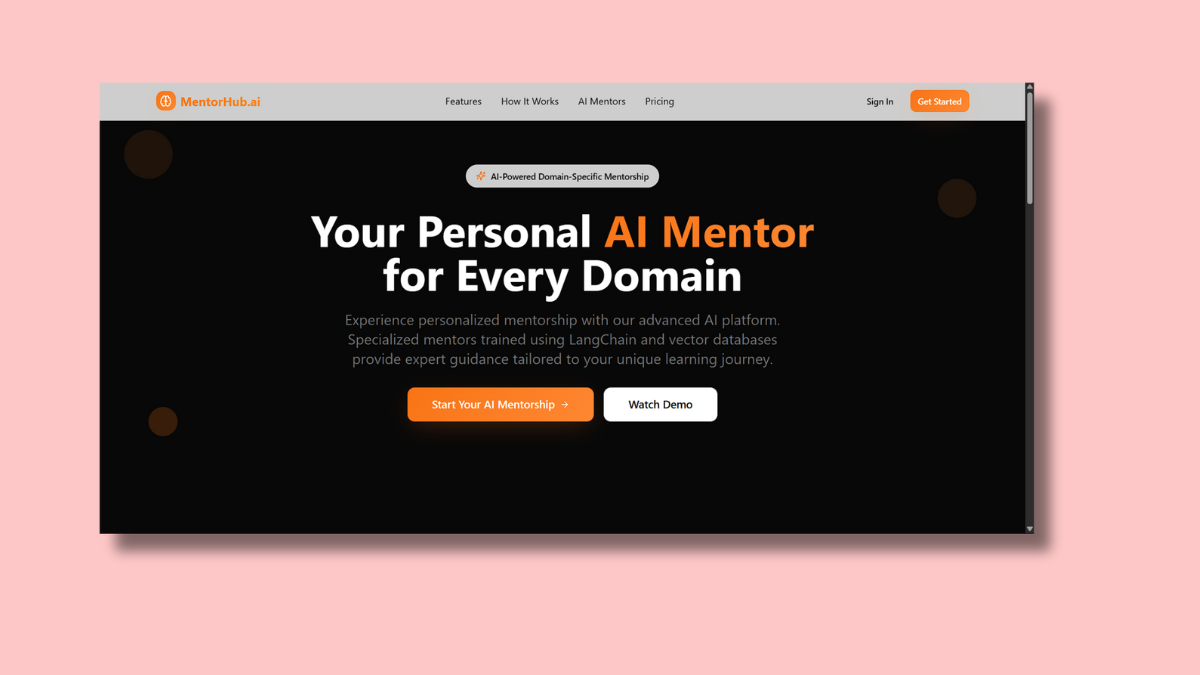
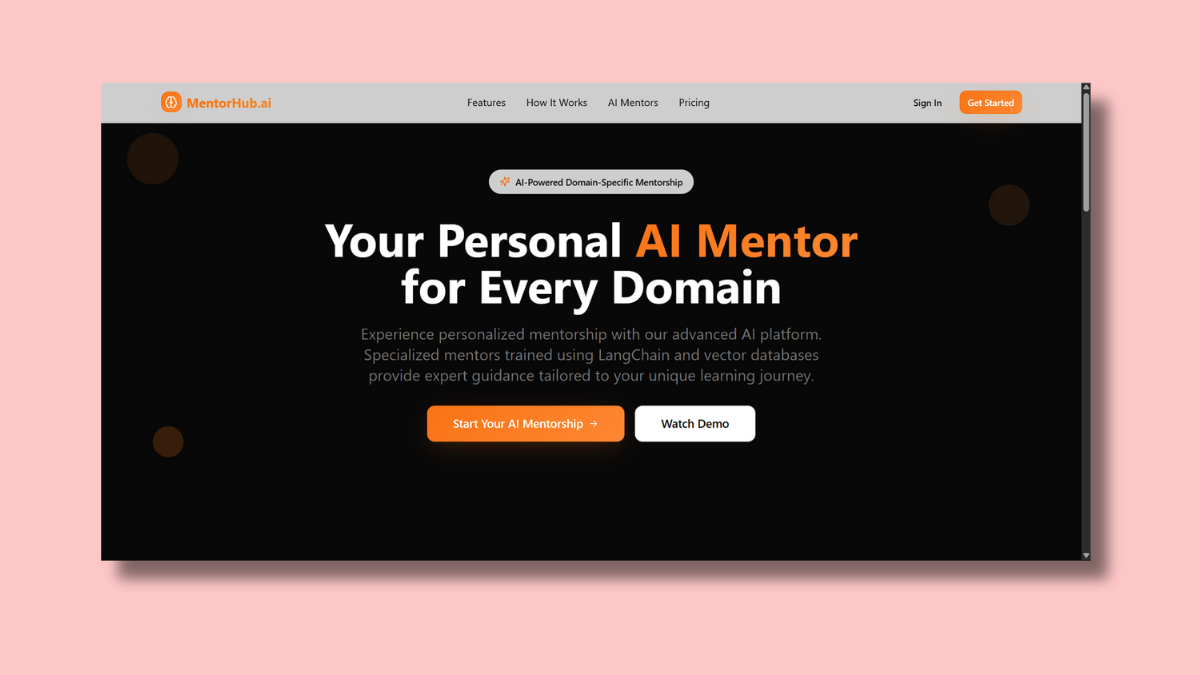
Projects Section Update

Changed region(s): [[0.0617, 0.1244, 0.925, 0.8711], [0.2467, 0.2178, 0.7092, 0.6844], [0.1233, 0.5911, 0.1542, 0.6844]]

diff --git a/src/components/AchievementsSection.js b/src/components/AchievementsSection.js
@@ -14,7 +14,7 @@ const achievementsData = {
       title: "TechHorizon Hackathon Finalist",
       issuer: "TechHorizon 2025",
       date: "2025",
-      summary: "Top 5 finalist among 300+ teams for building AidConnect with LLMs.",
+      summary: "Finalist among 300+ teams for building AidConnect with LLMs.",
       icon: <Medal className="w-6 h-6" />,
       emoji: "🥇"
     },
@@ -37,33 +37,35 @@ const achievementsData = {
       emoji: "🏆"
     }
   ],
-  certifications: [
+  certifications: [ 
     {
+          
       id: 1,
-      title: "Certified Python Developer",
-      issuer: "HackerRank",
-      date: "2023",
-      summary: "Completed Python skills certification with advanced problem-solving.",
-      icon: <CheckCircle className="w-6 h-6" />,
-      emoji: "✅",
-      certificateUrl: "https://hackerrank.com/certificates/python-certificate-1" // Add your actual certificate URL
-    },
-    {
-      id: 2,
-      title: "Machine Learning Specialization",
-      issuer: "Coursera (Andrew Ng)",
-      date: "2024",
-      summary: "Completed a comprehensive course on supervised/unsupervised learning.",
+      title: "RAG-based Solution using Azure Ai",
+      issuer: "Microsoft",
+      date: "2025",
+      summary: "Created a generative AI app that uses own data.",
       icon: <FileText className="w-6 h-6" />,
       emoji: "📜",
       certificateUrl: "https://coursera.org/certificates/ml-specialization-cert" // Add your actual certificate URL
     },
     {
+      id: 2,
+      title: "Generative Ai Specialization",
+      issuer: "Infosys",
+      date: "2024",
+      summary: "Completed Python skills certification with advanced problem-solving.",
+      icon: <CheckCircle className="w-6 h-6" />,
+      emoji: "✅",
+      certificateUrl: "https://hackerrank.com/certificates/python-certificate-1" // Add your actual certificate URL
+    },
+  
+{
       id: 3,
-      title: "Frontend Web Development",
-      issuer: "freeCodeCamp",
+      title: "Certified Python Developer",
+      issuer: "Hackerrank",
       date: "2023",
-      summary: "Built responsive UIs with React and modern JS.",
+      summary: "Completed Python skills certification with advanced problem-solving..",
       icon: <Bookmark className="w-6 h-6" />,
       emoji: "📘",
       certificateUrl: "https://freecodecamp.org/certificates/frontend-cert" // Add your actual certificate URL

diff --git a/src/components/ProjectsSection.js b/src/components/ProjectsSection.js
@@ -2,8 +2,8 @@
 import React, { useState } from 'react';
 import { motion } from 'framer-motion';
 import { Star, ExternalLink, Github, ArrowUpRight } from 'lucide-react';
-import GiveForward from '../assets/GiveForward.png';
-import Healix from '../assets/Healix.png';
+import AidConnect from '../assets/AidConnect.png';
+import MediBuddy from '../assets/Medibuddy.png';
 import MentorHub from '../assets/MentorsHub.png';
 //import InSight from '../assets/InSight.png';
 import AppleAnalyzer from '../assets/AppleAnalyzer.png';
@@ -19,7 +19,7 @@ const projectsData = [
     year: "2025",
     status: "Multimodal Healthcare Assistant",
     description: "A voice and vision-based AI assistant for healthcare diagnosis. Integrated speech and image processing models achieving ~95% accuracy.",
-    image: Healix,
+    image: MediBuddy,
     backgroundColor: "bg-purple-50 dark:bg-purple-900/20",
     accentColor: "text-purple-700 dark:text-purple-400",
     technologies: ["Python", "Gradio", "OpenAI", "Groq Api"],
@@ -34,7 +34,7 @@ const projectsData = [
     year: "2025",
     status: "Hackathon Finalist",
     description: "Donation platform for direct goods delivery from shopkeepers to NGOs. Features an AI-based vendor matching algorithm using LLaMA 3.2.",
-    image: GiveForward,
+    image: AidConnect,
     backgroundColor: "bg-purple-50 dark:bg-purple-900/20",
     accentColor: "text-purple-700 dark:text-purple-400",
     technologies: ["React", "Node.js", "LLaMA 3.2", "MongoDB"],
